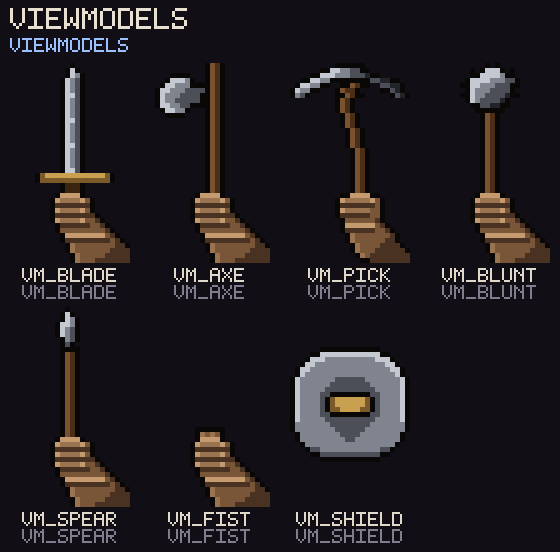
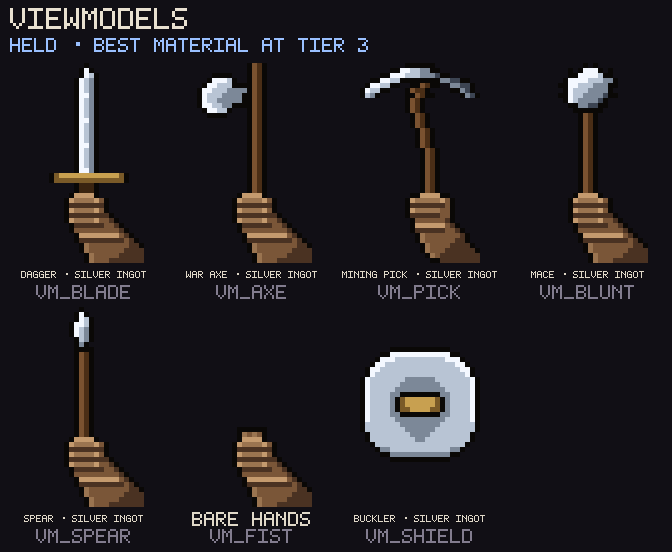
Draw the viewmodels in a material something is actually made of
The renderer hands the first-person weapon the equipped item's material
ramp, so a viewmodel drawn without one is a weapon made of nothing — the
sheet was showing exactly that. Each model now appears in the material of
a real base that is held as it, and `vm_fist` is labelled as a hand
rather than given a metal.

The weapon-class-to-viewmodel mapping moves out of `World.weaponArt` and
into `data/items.ts`, so the sheet cannot drift from what the game holds,
and a test now asserts every weapon base has a model to be held as.

Projectiles go the other way: `proj_frost` and its siblings are ramp art,
but the renderer never passes them a ramp, so the props sheet stops
inventing one and draws them the way they actually appear.

diff --git a/src/dev/art-sheets.ts b/src/dev/art-sheets.ts
@@ -12,7 +12,7 @@ import { ENEMIES, KING_PHASES } from '../data/enemies';
 import { BIOMES } from '../data/biomes';
 import { ICONS } from '../art/icons';
 import { MATERIALS } from '../data/materials';
-import { CONSUMABLES, ITEM_BASES } from '../data/items';
+import { CONSUMABLES, ITEM_BASES, viewmodelFor } from '../data/items';
 import { MaterialDef } from '../types';
 import { Ramp } from '../art/raster';
 import { PROPS } from '../art/props';
@@ -152,6 +152,21 @@ const biomeGroups: SheetGroup[] = BIOMES.map((b) => ({
 
 const plain = (ids: string[]): SheetCell[] => ids.map((id) => ({ id, label: id }));
 
+/**
+ * The game hands the viewmodel the equipped weapon's ramp, so a flat one is a
+ * weapon made of nothing. Each model is shown in the material of a real base
+ * that is held as it — `vm_fist` excepted, which is a hand.
+ */
+function viewmodelCells(tier: number): SheetCell[] {
+  return VIEWMODELS.map((vm) => {
+    const base = ITEM_BASES.find((b) =>
+      vm.id === 'vm_shield' ? b.slot === 'offhand' : b.slot === 'weapon' && viewmodelFor(b.weaponClass) === vm.id);
+    if (!base) return { id: vm.id, label: 'Bare hands' };
+    const m = materialFor(base.primary, tier);
+    return { id: vm.id, label: m ? `${base.name} · ${m.name}` : base.name, ramp: m?.ramp };
+  });
+}
+
 function iconGroups(tier: number): SheetGroup[] {
   const covered = new Set<string>();
   const materials: SheetCell[] = MATERIALS.map((m) => {
@@ -211,7 +226,7 @@ export function sheets(tier: number = DEFAULT_TIER): ArtSheet[] {
   { id: 'biomes', title: 'Biomes', note: 'Wall, floor, ceiling and door per biome. In-game these also carry coloured light.', cols: 6, groups: biomeGroups },
   { id: 'props', title: 'Props', note: 'Everything the dungeon stands on the floor.', cols: 6, groups: [{ title: 'Props', cells: plain(PROPS.map((p) => p.id)) }] },
   { id: 'icons', title: 'Icons', note: 'Every icon as something that exists: each piece of gear in a material its base actually allows, each material and potion in its own colours.', cols: 6, groups: iconGroups(tier) },
-  { id: 'viewmodels', title: 'Viewmodels', note: 'The weapon in your own hands.', cols: 4, groups: [{ title: 'Viewmodels', cells: plain(VIEWMODELS.map((v) => v.id)) }] },
+  { id: 'viewmodels', title: 'Viewmodels', note: 'The weapon in your own hands, in the material of a weapon that uses it. An empty hand has no material.', cols: 4, groups: [{ title: `Held · best material at tier ${tier}`, cells: viewmodelCells(tier) }] },
   ];
 }
 

diff --git a/src/__tests__/art.test.ts b/src/__tests__/art.test.ts
@@ -2,7 +2,7 @@ import { describe, it, expect } from 'vitest';
 import { ALL_ART, getArt } from '../art/registry';
 import { rasterize, validateArt } from '../art/raster';
 import { MATERIALS } from '../data/materials';
-import { CONSUMABLES, ITEM_BASES } from '../data/items';
+import { CONSUMABLES, ITEM_BASES, viewmodelFor } from '../data/items';
 import { BIOMES } from '../data/biomes';
 import { ENEMIES, KING_PHASES } from '../data/enemies';
 import { MATERIAL_TIERS, sheets } from '../dev/art-sheets';
@@ -41,6 +41,8 @@ describe('pixel art', () => {
       needed.add(`${p.sprite}_atk`);
       if (p.shield) needed.add(`${p.sprite}_block`);
     }
+    // Every weapon in the game has to have something to be held as.
+    for (const b of ITEM_BASES) if (b.slot === 'weapon') needed.add(viewmodelFor(b.weaponClass));
     for (const id of ['vm_blade', 'vm_axe', 'vm_pick', 'vm_blunt', 'vm_spear', 'vm_fist', 'vm_shield']) needed.add(id);
     for (const id of ['trap_dart_spent', 'trap_spikes_spent', 'trap_alarm_spent']) needed.add(id);
     for (const id of needed) expect(getArt(id), id).toBeDefined();

diff --git a/src/world/world.ts b/src/world/world.ts
@@ -28,7 +28,7 @@ import {
   trapAt,
 } from '../systems/dungeon';
 import { enemyDef, enemyView, kingPhase, phaseForHp } from '../data/enemies';
-import { consumable, itemBase } from '../data/items';
+import { consumable, itemBase, viewmodelFor } from '../data/items';
 import { biomeForFloor, FINAL_DEPTH } from '../data/biomes';
 import { PlayerDerived, derivePlayer } from '../systems/player';
 import { DifficultyId, DifficultyDef, difficultyOf } from '../data/difficulty';
@@ -2291,8 +2291,6 @@ export class World {
   weaponArt(): { id: string; materialId?: string } {
     const w = this.state.equipment.weapon;
     if (!w) return { id: 'vm_fist' };
-    const cls = itemBase(w.ref).weaponClass;
-    const id = cls === 'axe' ? 'vm_axe' : cls === 'pick' ? 'vm_pick' : cls === 'blunt' ? 'vm_blunt' : cls === 'spear' ? 'vm_spear' : 'vm_blade';
-    return { id, materialId: w.materialId };
+    return { id: viewmodelFor(itemBase(w.ref).weaponClass), materialId: w.materialId };
   }
 }

diff --git a/src/data/items.ts b/src/data/items.ts
@@ -193,6 +193,23 @@ export function gearLadderIndex(baseId: string): number {
 const BASE_BY_ID = new Map(ITEM_BASES.map((b) => [b.id, b]));
 const CONS_BY_ID = new Map(CONSUMABLES.map((c) => [c.id, c]));
 
+/**
+ * The first-person model a weapon class is held as. Shared so the dev art
+ * sheet draws the viewmodels the game would actually draw, in the materials
+ * the bases behind them allow, rather than guessing at the mapping.
+ * An empty hand is `vm_fist`, decided by the caller that knows there is no
+ * weapon at all.
+ */
+export function viewmodelFor(weaponClass: ItemBaseDef['weaponClass']): string {
+  switch (weaponClass) {
+    case 'axe': return 'vm_axe';
+    case 'pick': return 'vm_pick';
+    case 'blunt': return 'vm_blunt';
+    case 'spear': return 'vm_spear';
+    default: return 'vm_blade';
+  }
+}
+
 export function itemBase(id: string): ItemBaseDef {
   const b = BASE_BY_ID.get(id);
   if (!b) throw new Error(`unknown item base ${id}`);
